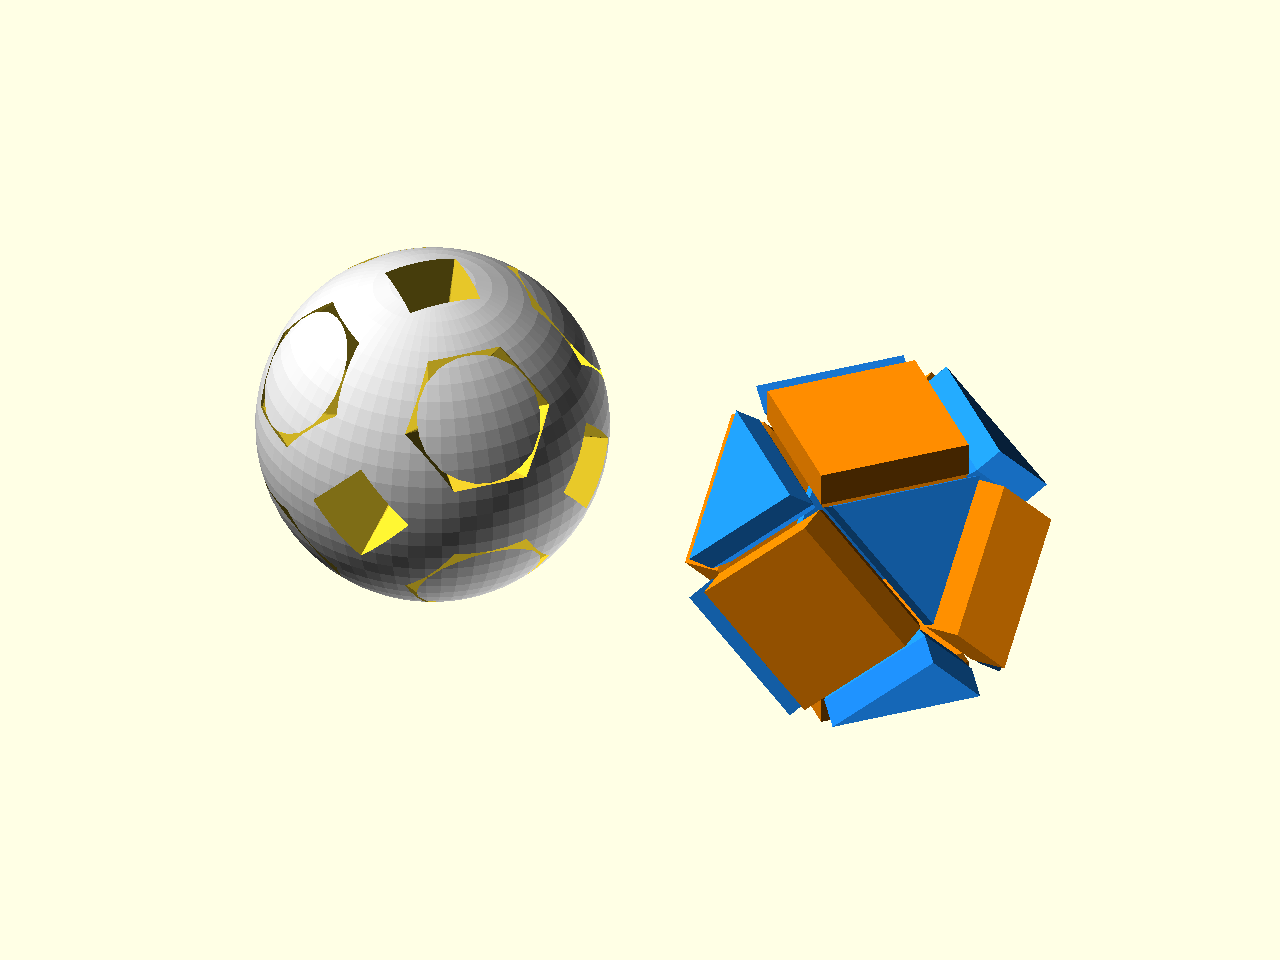
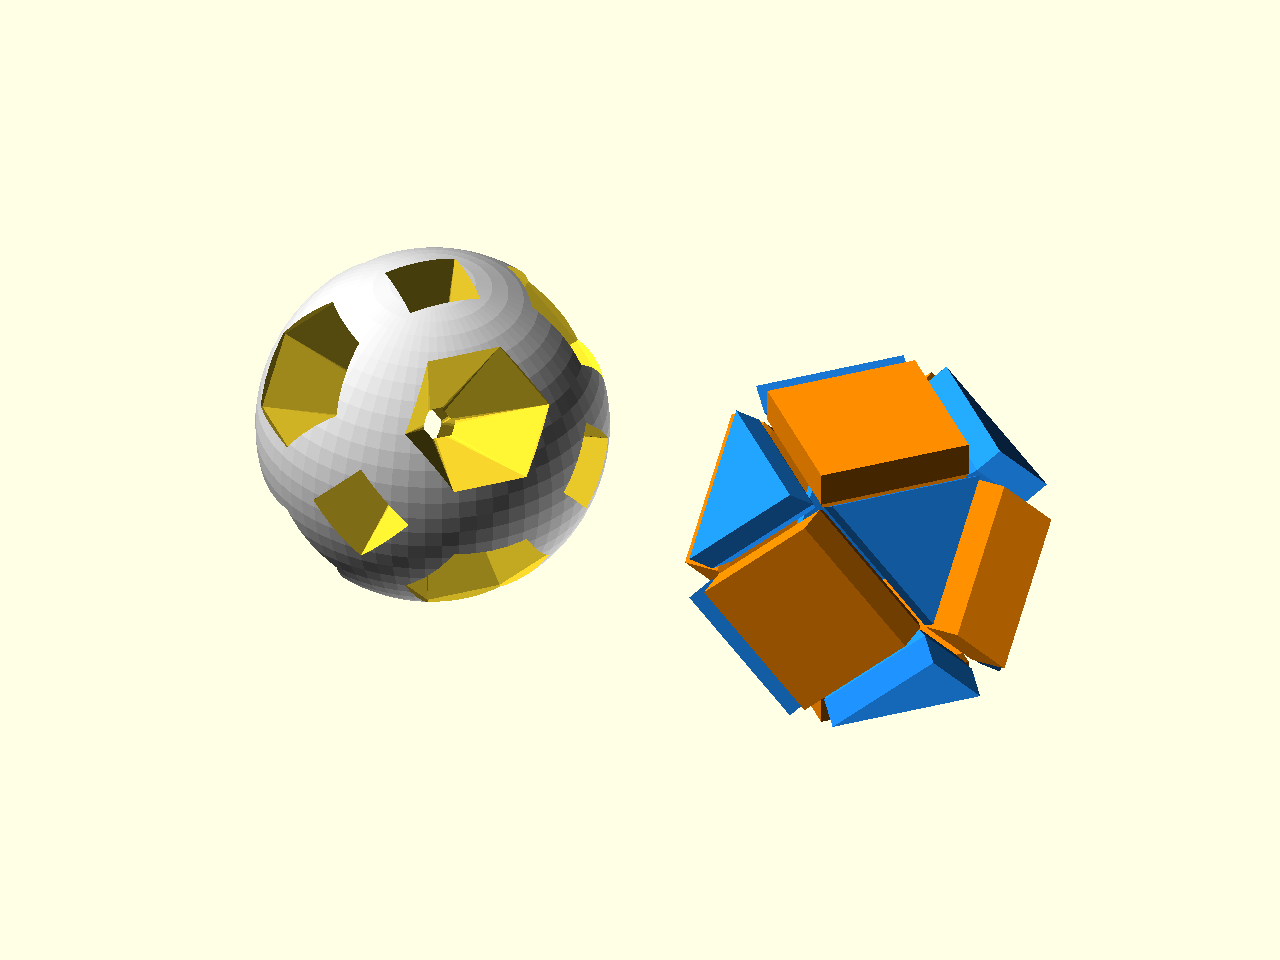
[#193] Improved tutorial 5

diff --git a/docs/tutorials/05_boolean_patterns.md b/docs/tutorials/05_boolean_patterns.md
@@ -18,7 +18,7 @@ A placed face cutter can use `$ps_face_pts2d` for the mouth of the recess and
 module face_cavity_cutter() {
     hull() {
         translate([0, 0, 5])
-            linear_extrude(height = 1)
+            linear_extrude(height = 8)
                 polygon(points = $ps_face_pts2d * 0.78);
         translate($ps_poly_center_local)
             sphere(r = 0.8, $fn = 12);
@@ -36,26 +36,36 @@ difference() {
 }
 ```
 
-## Anti-Interference Volumes
+## Face-Region Volumes
+
+![Cuboctahedron face-region volumes shown alone and used to clip oversized face plates](../images/generated/tutorial_05_face_region_volumes.png)
+
+Source: [`docs/examples/tutorial_05_face_region_volumes.scad`](../examples/tutorial_05_face_region_volumes.scad)
 
 Face-local geometry can collide with neighbouring face space when it gets thick
 or decorative. `ps_face_region_loop_volume(...)` builds the positive region
-available to the current face. Intersecting with it clips the placed geometry to
-that admissible volume:
+available to the current face. Used on its own, it shows the automatically
+derived face-region shape:
 
 ```scad
-module clipped_face_pad() {
-    intersection() {
-        ps_face_region_loop_volume(
-            -wall_thk,
-            pad_h,
-            boundary_inset = 0.45,
-            boundary_inset_mode = "side"
-        );
-        translate([0, 0, -wall_thk])
-            linear_extrude(height = wall_thk + pad_h)
-                polygon(points = $ps_face_pts2d * 0.92);
-    }
+module region_volume() {
+    color(face_col())
+        ps_face_region_loop_volume(z0, z1, boundary_inset = inset);
+}
+```
+
+Intersecting with it clips an intentionally oversized face plate back to that
+admissible volume:
+
+```scad
+module oversized_plate_clipped_to_region() {
+    color(face_col())
+        intersection() {
+            ps_face_region_loop_volume(z0, z1, boundary_inset = inset);
+            translate([0, 0, plate_z0])
+                linear_extrude(height = plate_z1 - plate_z0)
+                    polygon(points = $ps_face_pts2d * 1.22);
+        }
 }
 ```
 
